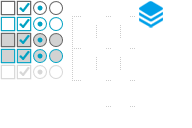
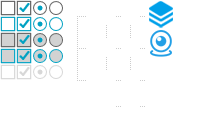
树及其他样式

diff --git a/asset/introduce/zTree/css/zTreeStyle/zTreeStyle.css b/asset/introduce/zTree/css/zTreeStyle/zTreeStyle.css
@@ -8,19 +8,18 @@ website:	http://code.google.com/p/jquerytree/
 
 -------------------------------------*/
 
-.ztree * {padding:0; margin:0; font-size:16px; font-family: Verdana, Arial, Helvetica, AppleGothic, sans-serif}
-.ztree {margin:0; padding:8px 25px 14px; color:#383838; border-top: solid 1px #E4E7EA}
+.ztree * {padding:0; margin:0; font-size:14px; font-family: Verdana, Arial, Helvetica, AppleGothic, sans-serif}
+.ztree {margin:0; padding:8px 25px 14px; color:#229fe6; border-top: solid 1px #E4E7EA}
 .ztree:first-child {
 	border-top: solid 1px transparent;
 }
 .ztree li{padding:0; margin:0; list-style:none; line-height:36px; text-align:left; white-space:nowrap; outline:0}
-.ztree li ul{ margin:0; padding:0 0 0 18px}
+.ztree li ul{ margin:0; padding:0 0 0 30px}
 .ztree li ul.line{ background:url(./img/line_conn.gif) 0 0 repeat-y;}
 
-.ztree li a {padding:1px 3px 0 0; margin:0; cursor:pointer; height:36px; line-height: 36px; color:#383838; background-color: transparent;
-	text-decoration:none; vertical-align:top; display: inline-block}
-.ztree li a:hover {text-decoration:underline}
-.ztree li a.curSelectedNode {padding-top:2px; color:#00A1C2; height:18px;}
+.ztree li a {padding:1px 3px 0 0; margin:0; cursor:pointer; height:32px; line-height: 32px; color:#383838; background-color: transparent;
+	text-decoration:none; vertical-align:middle; display: inline-block}
+.ztree li a.curSelectedNode {color:#fff;}
 .ztree li a.curSelectedNode_Edit {padding-top:0px; background-color:#FFE6B0; color:#383838; height:16px; border:1px #FFB951 solid; opacity:0.8;}
 .ztree li a.tmpTargetNode_inner {padding-top:0px; background-color:#316AC5; color:white; height:16px; border:1px #316AC5 solid;
 	opacity:0.8; filter:alpha(opacity=80)}
@@ -56,28 +55,33 @@ website:	http://code.google.com/p/jquerytree/
 .ztree li span.button.chk.radio_true_part_focus {background-position:-48px -48px}
 .ztree li span.button.chk.radio_true_disable {background-position:-48px -64px}
 
-.ztree li span.button.switch {width:18px; height:20px; padding-top:6px;}
-.ztree li span.button.root_open{background-position:-112px -97px}
-.ztree li span.button.root_close{background-position:-88px -90px}
-.ztree li span.button.roots_open{background-position:-112px 0}
-.ztree li span.button.roots_close{background-position:-88px 0}
-.ztree li span.button.center_open{background-position:-112px -32px}
-.ztree li span.button.center_close{background-position:-88px -32px}
-.ztree li span.button.bottom_open{background-position:-112px -64px}
-.ztree li span.button.bottom_close{background-position:-88px -64px}
+.ztree li span.button.switch {width:24px; height:34px; padding-top:6px;}
+.ztree li span.button.root_open{background-position:-122px -88px}
+.ztree li span.button.root_close{background-position:-98px -88px}
+.ztree li span.button.roots_open{background-position:-122px 0}
+.ztree li span.button.roots_close{background-position:-98px 0}
+.ztree li span.button.center_open{background-position:-122px -28px}
+.ztree li span.button.center_close{background-position:-98px -28px}
+.ztree li span.button.bottom_open{background-position:-122px -64px}
+.ztree li span.button.bottom_close{background-position:-98px -57px}
 .ztree li span.button.noline_open{background-position:-92px -72px}
 .ztree li span.button.noline_close{background-position:-74px -72px}
 .ztree li span.button.root_docu{ background:none;}
-.ztree li span.button.roots_docu{background-position:-112px 0}
-.ztree li span.button.center_docu{background-position:-64px -31px}
-.ztree li span.button.bottom_docu{background-position:-64px -63px}
+.ztree li span.button.roots_docu{background-position:-122px 0}
+.ztree li span.button.center_docu{background-position:-69px -28px}
+.ztree li span.button.bottom_docu{background-position:-69px -63px}
 .ztree li span.button.noline_docu{ background:none;}
 
-.ztree li span.button.ico_open{margin-right:2px; background-position:-136px 0px; vertical-align:top; *vertical-align:middle}
-.ztree li span.button.ico_close{margin-right:2px; background-position:-136px 0; vertical-align:top; *vertical-align:middle}
-.ztree li span.button.ico_docu{width:0;margin-right:2px; background-position:-110px -90px; vertical-align:top; *vertical-align:middle}
+.ztree li span.button.ico_open{margin-right:2px; background-position:-146px 0px; vertical-align:top; *vertical-align:middle}
+.ztree li span.button.ico_close{margin-right:2px; background-position:-146px 0; vertical-align:top; *vertical-align:middle}
+.ztree li span.button.ico_docu{width:30px;margin-right:2px; background-position:-146px -30px; vertical-align:top; *vertical-align:middle}
 .ztree li span.button.edit {margin-right:2px; background-position:-110px -48px; vertical-align:top; *vertical-align:middle}
 .ztree li span.button.remove {margin-right:2px; background-position:-110px -64px; vertical-align:top; *vertical-align:middle}
+
+.ztree li a.curSelectedNode span.button.ico_open,
+.ztree li a.curSelectedNode span.button.ico_close {background-position:-173px 0;}
+.ztree li a.curSelectedNode span {color: #fff;}
+.ztree li a.curSelectedNode span.button.ico_docu {background-position:-172px -30px;}
 
 .ztree li span.button.ico_loading{margin-right:2px; background:url(./img/loading.gif) no-repeat scroll 0 0 transparent; vertical-align:top; *vertical-align:middle}
 

diff --git a/page/fixed-duty/fixed-duty.html b/page/fixed-duty/fixed-duty.html
@@ -54,7 +54,7 @@ style="position: fixed;display: block;top: 75px;left: -300px;width: 300px;height
         <span class="page-title">固定勤务</span>
     </dt>
     <dd>
-        <ul class="duty-content">
+        <div class="duty-content">
             <!--<li class="duty-content-item">-->
                 <!--<div class="duty-detail">-->
                     <!--<img class="duty-man-img" src="../../asset/img/avatar.png" alt="照片">-->
@@ -63,7 +63,7 @@ style="position: fixed;display: block;top: 75px;left: -300px;width: 300px;height
                 <!--</div>-->
                 <!--<div class="duty-video"></div>-->
             <!--</li>-->
-        </ul>
+        </div>
     </dd>
 </dl>
 <script src="../../asset/js/jquery.min.js"></script>
@@ -85,9 +85,19 @@ style="position: fixed;display: block;top: 75px;left: -300px;width: 300px;height
                 $.each(data, function (index, item) {
                     var dutyPersonTeam = data[index].dutyPersonTeam,
                         dutyPersonName = data[index].dutyPersonName,
-                        dutyPersonPic = data[index].dutyPersonPic,
+                        dutyPersonPic = data[index].dutyPersonPic || '../../asset/img/avatar.png',
                         rtspUrl = data[index].rtspUrl;
-                    html += '<li class="duty-content-item"><div class="duty-detail"><img class="duty-man-img" src="'+dutyPersonPic+'" alt="照片"><p>'+dutyPersonName+'</p><p>'+dutyPersonTeam+'</p></div><div class="duty-video"><OBJECT classid="clsid:9BE31822-FDAD-461B-AD51-BE1D1C159921" id="vlc'+(index+1)+'" codebase="" width="100%" height="100%" events="True"><param name="AutoLoop" value="False" /><param name="AutoPlay" value="True" /><param name="Time" value="True" /><param name="ShowDisplay" value="True" /><param name="Controls" value="False"><EMBED pluginspage="http://www.videolan.org" type="application/x-vlc-plugin" version="VideoLAN.VLCPlugin.2" width="100%" height="85%" text="Waiting for video" name="vlc"></EMBED></OBJECT></div></li>'
+                    html += '<ul class="duty-content-item"><li>' +
+                      '<div class="duty-detail"><img class="duty-man-img" src="'+dutyPersonPic+'" alt="照片">' +
+                      '<p>'+dutyPersonName+'</p><p>'+dutyPersonTeam+'</p></div>' +
+                      '<div class="duty-video">' +
+                      '<OBJECT classid="clsid:9BE31822-FDAD-461B-AD51-BE1D1C159921" id="vlc'+(index+1)+'" codebase="" width="100%" height="100%" events="True">' +
+                      '<param name="AutoLoop" value="False" /><param name="AutoPlay" value="True" />' +
+                      '<param name="Time" value="True" />' +
+                      '<param name="ShowDisplay" value="True" />' +
+                      '<param name="Controls" value="False">' +
+                      '<EMBED pluginspage="http://www.videolan.org" type="application/x-vlc-plugin" version="VideoLAN.VLCPlugin.2" width="100%" height="85%" text="Waiting for video" name="vlc"></EMBED>' +
+                      '</OBJECT></div></li></ul>'
                 })
                 $('.duty-content').html(html)
                 var itemWidth = $('.duty-video').width();

diff --git a/asset/css/common.css b/asset/css/common.css
@@ -66,6 +66,7 @@ input{
  ** 头部样式
 */
 .header{
+  position: relative;
     background: url('../img/index-title.png') center top no-repeat;
     height: 10.92%;
     margin:10px 0 0;
@@ -74,16 +75,15 @@ input{
     max-height:118px;
 }
 .header-lt{
-    float: left;
-    cursor:pointer;
+    display: inline-block;
     width: 60%;
     height: 55%;
-    margin-left:25%; 
-    /* background-color:red */
 }
 .header-rt{
-    float: right;
-    z-index: 10;
+  position: absolute;
+  right: 0;
+  top: -4px;
+  z-index: 10;
 }
 .notice-icon{
     width: 16px;

diff --git a/asset/js/aside.js b/asset/js/aside.js
@@ -29,11 +29,6 @@ $(function () {
       var zTreeObj;
       // zTree 的参数配置，深入使用请参考 API 文档（setting 配置详解）
       var setting = {
-            view:{
-                  fontCss:{
-                        "color":"#229fe6"
-                  }
-            },
             data:    {
                   simpleData:{
                         enable:true,

diff --git a/page/fixed-duty/fixed-duty.css b/page/fixed-duty/fixed-duty.css
@@ -45,9 +45,13 @@
 
 .duty-content-item {
   float: left;
-  margin: 18px;
+  width: 33.3%;
   padding: 0;
-  width: 30%;
+  margin: 0;
+}
+.duty-content-item > li {
+  padding: 0;
+  margin: 9px;
   background: rgba(6, 4, 122, 0.6);
   border-radius: 5px;
   border: 1px solid #229fe6;

diff --git a/asset/js/configapi.js b/asset/js/configapi.js
@@ -1,4 +1,4 @@
 /*
 * 全局定义接口请求IP
 * */
-var $ctx = 'http://192.168.3.7:18080'
+var $ctx = 'http://172.16.5.226:18080'
